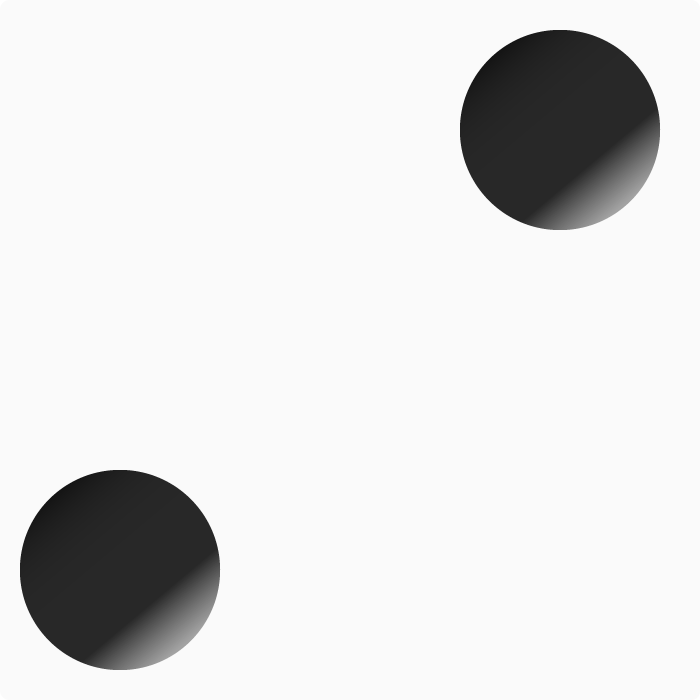
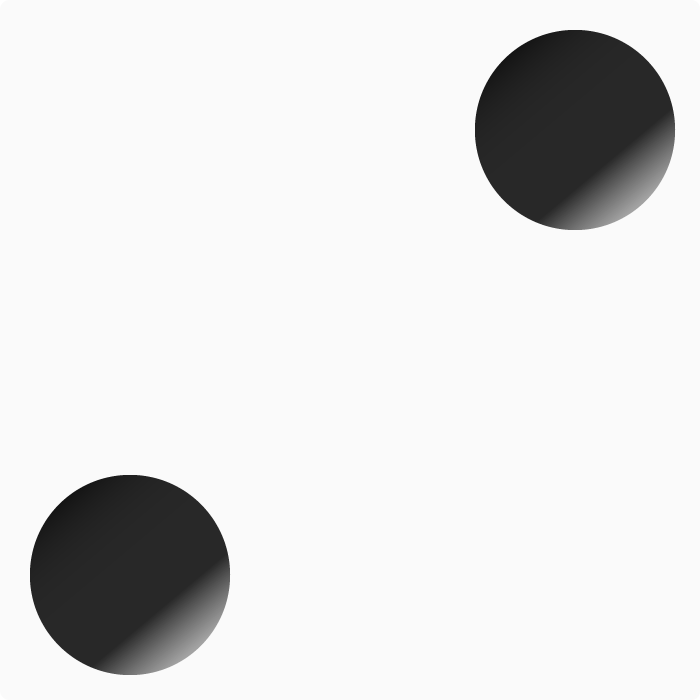
fix
・サイコロ画像の修正
・サイコロ表示位置の修正

diff --git a/CSS/app/dice.css b/CSS/app/dice.css
@@ -8,7 +8,7 @@
 	height: 70vh;
 	margin: auto;
 	position: relative;
-	top: 20vh;
+	top: 15vh;
 }
 .dice-wrapper__effect {
 	width: 100%;
